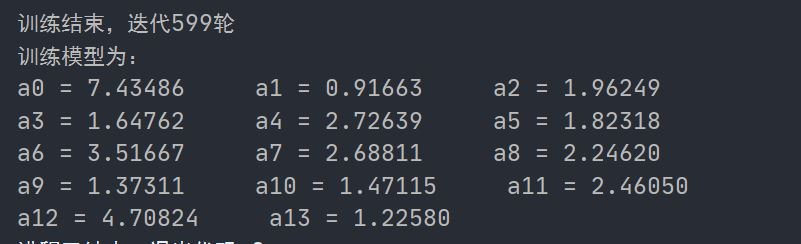
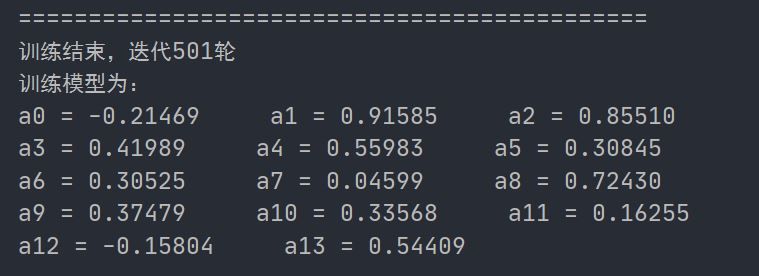
4/19
更新修改后的训练截图；提交并修改论文大纲

diff --git a/OpeningPreparation/src/test/java/VANE.java b/OpeningPreparation/src/test/java/VANE.java
@@ -27,10 +27,7 @@ public class VANE {
     public void house() throws Exception {
         List<String> urls = Arrays.asList("src/main/resources/database/house_data.csv",
                 "src/main/resources/database/house_data.csv");
-        BigDecimal[] a = VANETest(urls);
-        List<String> newUrls = new ArrayList<>(urls);
-        newUrls.add("src/main/resources/database/house_data.csv");
-        updateByAddDOs(a, newUrls);
+        VANETest(urls);
     }
 
     private static BigDecimal[] VANETest(List<String> urls) throws Exception {

diff --git a/OpeningPreparation/src/main/resources/大纲.md b/OpeningPreparation/src/main/resources/大纲.md
@@ -1,0 +1,54 @@
+封面
+
+目录
+
+中文摘要：
+
+关键词：
+
+英文摘要：
+
+KeyWords：
+
+前言：
+
+第一章 绪论
+1. 背景介绍
+2. 研究现状（国内&国外）
+3. 本文贡献
+
+第二章 基础知识
+1. 公钥密码体制
+2. Paillier 同态加密
+Paillier加解密的原理和同态特性分析证明
+3. 线性回归
+梯度下降法的概念、实现、优化
+
+第三章 VANE算法复现
+1. 算法框架
+绘制流程图阐述总体结构
+2. 本地数据加密
+    1. 密钥生成
+    2. 数据加密
+3. 云服务回归训练
+    1. 数据聚合
+    2. 聚合结果解密
+    3. 回归训练
+4. 算法分析（数学证明）
+5. 模型更新规则
+
+第四章 仿真实验
+1. 实验数据集（wine-quality、boston-housing）
+介绍数据集内容
+2. 训练结果准确率分析
+以平均绝对误差MAE分析不加密训练的结果准确率
+绘制回归“迭代次数 – MAE” 表格
+3. VANE算法计算和通信开销分析
+复杂度分析
+4. 实验过程中遇到的问题及解决方案
+    1. 聚合解密错误问题：
+        1. x可能介于γ和N之间导致解密错误
+        2. 聚合矩阵没有归一化导致越界，最后无法正确解密
+    2. 聚合训练正确率问题
+
+第五章 总结与展望

diff --git a/README.md b/README.md
@@ -149,3 +149,6 @@
 * 4/18
     * 添加更新 DOs 引起的模型更新情形演示
     * 待更新：截图
+* 4/19
+    * 更新修改后的训练截图
+    * 提交并修改论文大纲
